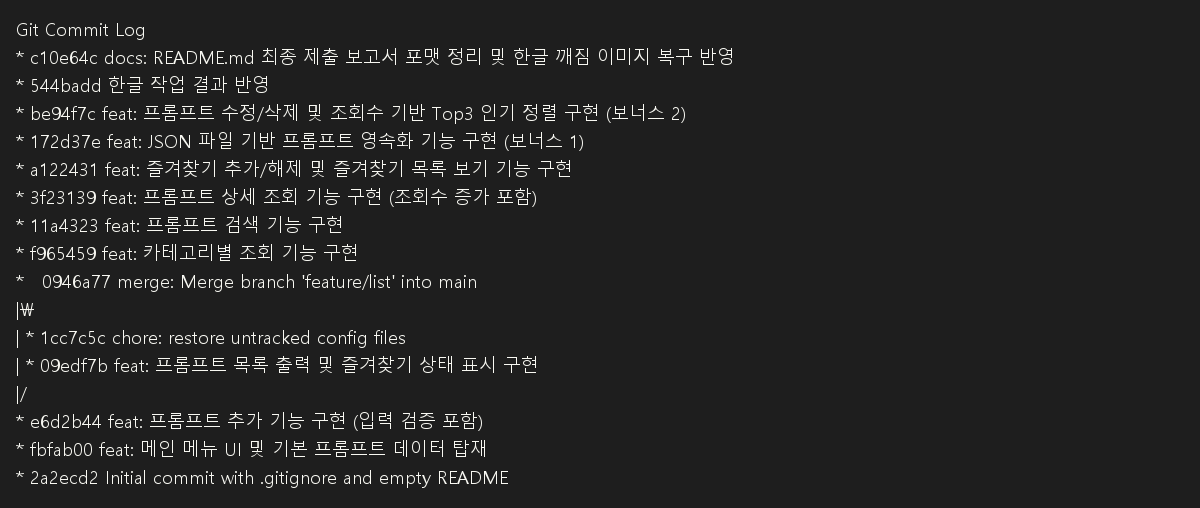
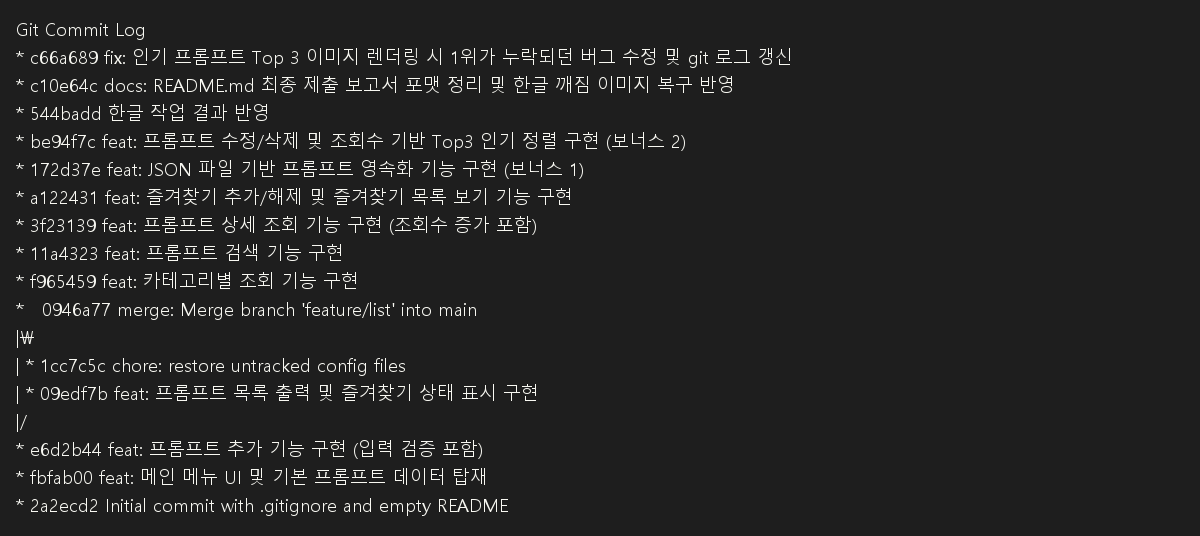
docs: 개발 환경 섹션의 중복 이미지를 버전 확인 스크린샷인 dev_env.png로 대체

Changed region(s): [[0.0, 0.0295, 0.6475, 0.5906], [0.0, 0.7972, 0.4317, 0.9744], [0.0, 0.5906, 0.4625, 0.7677]]

diff --git a/03_etc/generate_images.py b/03_etc/generate_images.py
@@ -94,3 +94,12 @@ if GIT_LOG_FILE.exists():
     render_image(["Git Commit Log"] + ["" ] + git_lines, IMAGES_DIR / "git_log.png")
 else:
     print("git_log.txt not found, skipping git_log.png")
+
+# Dev env image if exists
+DEV_ENV_FILE = ROOT / "dev_env.txt"
+if DEV_ENV_FILE.exists():
+    with DEV_ENV_FILE.open("r", encoding="utf-8") as f:
+        dev_lines = [line.rstrip() for line in f.readlines()]
+    render_image(dev_lines, IMAGES_DIR / "dev_env.png")
+else:
+    print("dev_env.txt not found, skipping dev_env.png")

diff --git a/README.md b/README.md
@@ -12,7 +12,7 @@
 * **인코딩**: UTF-8
 
 ### 개발 환경 확인 및 실행 준비 완료
-![개발 환경 확인](02_source/images/demo_session.png)
+![개발 환경 확인](02_source/images/dev_env.png)
 
 ---
 